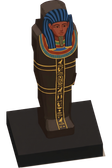
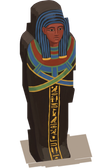
art: junior coffin, standing on the floor
Claude-Session: https://claude.ai/code/session_01F6g2diRzQCzQwEf9zsEEGH

diff --git a/docs/instructions/repaint-queue.md b/docs/instructions/repaint-queue.md
@@ -483,7 +483,7 @@ Even lighting left to right, no hotspot, no vignette.
 
 ---
 
-## Nobleman — twenty
+## Nobleman — nineteen
 
 The nobleman's existing props, repainted for the rank's new light orange floor. Each is its own thing
 first: cedar is cedar, linen is linen, pottery is pottery, painted in red ochre, Egyptian blue and leaf
@@ -506,57 +506,6 @@ The last nine are the house's own kinds, new with its activities ([themed-rooms.
 § Junior): each has a primitive of its own in `renderProp.py` and a guarded block in `art/rebuild.sh`. The
 banquet table and the bed are two cells across, so their frame is landscape three by two; the harp and the
 potted tree stand a cell taller, so theirs is portrait two by five.
-
-### `junior/sarcophagus` — a black-ground anthropoid coffin
-
-**Re-roll:** the first roll stood on a black plinth, which read as a block under the coffin once cut out; the scaffold now has no plinth.
-
-
-**Attach:**
-
-1. `~/tile-previews/sarcophagus-junior.png` — the scaffold
-2. `~/tile-previews/junior-plain.png` — the material reference
-
-```
-A wall-less product shot of a single object, painted in flat matte gouache, no background, on pure magenta #FF00FF. Portrait, two units wide by three tall, exactly as the reference. Do not re-compose it into a square. Paint over the reference image itself.
-
-The object: an upright ANTHROPOID COFFIN, a wrapped figure carved in wood. The upper marked part is the
-COFFIN. It stands straight on the floor, on its own foot — there is no base, no plinth, no slab under it.
-
-It is a COFFIN AND NOT A BOX: carve the outline of a wrapped body (a rounded head, shoulders, a body
-tapering to the feet) out of the rough block. No anatomy beyond that outline.
-
-PAINTED as a nobleman's black coffin: a BLACK resin ground #2a1f18 over the whole body, #3a2e26 on its
-top planes, crossed by narrow bands of yellow #c9a040, with a column of yellow hieroglyphs down the
-front. A striped wig in Egyptian blue #2a5a9a and black, a broad collar of red ochre #8a3a2a, blue and
-leaf green bands across the chest. The face is a calm flat mask in red-brown #8c4a36.
-
-THE REFERENCE IS A ROUGHED-OUT BLOCK, deliberately left fat. CHANGE, freely, and ONLY this: the contour
-of the figure, and only by CUTTING. CARVE INWARD ONLY — nothing may end up further left, right, higher or
-lower than the rough shape reaches.
-
-EVERYTHING ELSE IS FIXED:
-
-1. THE FRAME. Portrait, two units wide by three tall, exactly as the reference. Do not re-compose it into a square.
-2. THE PERSPECTIVE, THE PROJECTION, THE ANGLE AND THE ROTATION ARE THE REFERENCE'S. Take all four from the reference image exactly and do not reason about them. It is not a photograph and not an isometric view.
-3. IT STANDS upright, facing the viewer.
-4. NOTHING STANDS UNDER IT. The lowest step of the rough shape is the coffin's own foot, painted as the coffin; do not add a plinth, a base or a slab.
-5. THE PLACEMENT AND THE SIZE. Every part stays where the reference puts it, and the whole object stays as tall and as wide in the frame as it already is.
-
-You are re-carving a shape, not re-staging a photograph.
-
-ANYTHING DRAWN OUTSIDE THE ROUGH SHAPE IS CUT OFF. Nothing is added below the foot — no ground, no shadow, no floor.
-
-No highlights, no gloss, no rim light, no ground plane, no reflections. Matte throughout, evenly lit, crisp and clean. Nobleman's house: orange sandstone, painted plaster, cedar, linen, reed and pottery, each in its OWN colours so it reads at a glance as what it is. Copper is an accent only — a rim, a band, a hasp, gone verdigris green at the edges — never a tint over the whole object.
-```
-
-Then, once the return is in `~/Downloads`:
-
-```sh
-scaffold statue --contents=mummiform --no-plinth=1 --spin=11 --colour=#4a3e34 --colour-figure=#5a4e44 --floor=#e2a86f
-yarn import-tile art/masters/props/junior/sarcophagus.webp --tier=junior --name=sarcophagus --slot=prop \
-  --filter=smooth --mask="$OBJ" --seat="$SHADOW"
-```
 
 ### `junior/shrine-anubis` — a false door with Anubis on its panel
 
